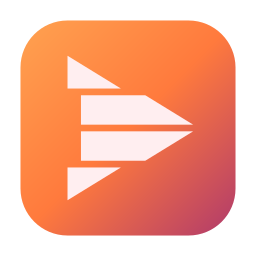
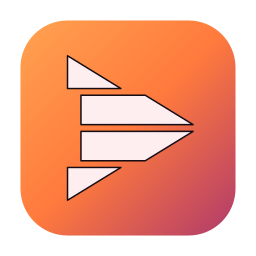
Give the woven ribbons a dark edge so they hold against the orange

diff --git a/tools/make_icon.py b/tools/make_icon.py
@@ -6,6 +6,11 @@ bands pushed sideways so the shape reads as cloth up close and as a play
 button at sixteen pixels. The two middle bands share an offset on purpose,
 because the apex sits exactly on their seam and opposite offsets fork the tip.
 
+Each band is worked out as its own polygon rather than cut out of one triangle
+with a clip. A clip would hide the outline along the horizontal cuts, since a
+clipped edge is not part of the shape being stroked, and the ribbons would be
+outlined on their slanted sides only.
+
 The whole drawing is scaled inside its square rather than drawn smaller,
 because a task bar gives every icon the same box. A tile that fills its box
 edge to edge looks bigger than the icons beside it, which almost all carry
@@ -36,6 +41,14 @@ CORNER = 28.0                    # corner radius before scaling
 MARK = "#ffeef0"                 # the theme's own text colour
 STOPS = (("0", "#ffa250"), ("0.5", "#ff7a3d"), ("1", "#b03a6b"))
 
+# White on orange separates by brightness alone, which a small icon renders as
+# a smear. A dark edge gives the ribbons a boundary that survives the shrink.
+# The weight is a compromise measured at every shipped size. Below about 0.5 it
+# stops reaching the rasteriser at all, and by 1.5 it starts greying the white
+# at sixteen pixels, where each ribbon is only a couple of pixels wide.
+OUTLINE = "#170d14"              # the theme's own background colour
+OUTLINE_WIDTH = 0.75
+
 # The triangle before scaling, and the horizontal cuts through it. The seams
 # are the band edges, the offsets are how far each band slides sideways.
 LEFT, RIGHT, TOP, BOTTOM = 32.0, 102.0, 21.0, 107.0
@@ -49,24 +62,44 @@ def scaled(value: float) -> float:
     return round(BOX / 2 + (value - BOX / 2) * FILL, 2)
 
 
-def draw() -> str:
+def right_edge(y: float) -> float:
+    """How far the triangle reaches at that height.
+
+    The two slanted sides meet at the apex, so the reach grows to the middle
+    and falls away again, which is what the distance from the middle measures.
+    """
+    middle = (TOP + BOTTOM) / 2
+    reach = 1 - abs(y - middle) / ((BOTTOM - TOP) / 2)
+    return LEFT + (RIGHT - LEFT) * reach
+
+
+def band(index: int) -> str:
+    """One ribbon, as a closed shape that can carry an outline.
+
+    The first and the last band end in a point, because their far edge is a
+    corner of the triangle rather than a cut across it.
+    """
     edges = [TOP, *SEAMS, BOTTOM]
-    triangle = (f"M {scaled(LEFT)} {scaled(TOP)} "
-                f"L {scaled(LEFT)} {scaled(BOTTOM)} "
-                f"L {scaled(RIGHT)} {scaled(BOTTOM - (BOTTOM - TOP) / 2)} Z")
+    first, last = index == 0, index == len(OFFSETS) - 1
+    top = edges[index] + (0 if first else GAP / 2)
+    bottom = edges[index + 1] - (0 if last else GAP / 2)
+    slide = round(OFFSETS[index] * FILL, 2)
 
-    clips, bands = [], []
-    for index, offset in enumerate(OFFSETS):
-        first, last = index == 0, index == len(OFFSETS) - 1
-        top = 0.0 if first else scaled(edges[index] + GAP / 2)
-        bottom = BOX if last else scaled(edges[index + 1] - GAP / 2)
-        clips.append(f'<clipPath id="b{index}">'
-                     f'<rect x="0" y="{top}" width="{BOX:.0f}" height="{round(bottom - top, 2)}"/>'
-                     f'</clipPath>')
-        bands.append(f'<g clip-path="url(#b{index})">'
-                     f'<path d="{triangle}" transform="translate({round(offset * FILL, 2)},0)"/>'
-                     f'</g>')
+    def point(x: float, y: float) -> str:
+        return f"{round(scaled(x) + slide, 2)} {scaled(y)}"
 
+    if first:
+        corners = [point(LEFT, top), point(right_edge(bottom), bottom), point(LEFT, bottom)]
+    elif last:
+        corners = [point(LEFT, top), point(right_edge(top), top), point(LEFT, bottom)]
+    else:
+        corners = [point(LEFT, top), point(right_edge(top), top),
+                   point(right_edge(bottom), bottom), point(LEFT, bottom)]
+    return "M " + " L ".join(corners) + " Z"
+
+
+def draw() -> str:
+    bands = "".join(f'<path d="{band(index)}"/>' for index in range(len(OFFSETS)))
     tile = scaled(0.0)
     side = round(BOX * FILL, 2)
     gradient = "".join(f'<stop offset="{at}" stop-color="{colour}"/>' for at, colour in STOPS)
@@ -74,11 +107,11 @@ def draw() -> str:
             f'width="{BOX:.0f}" height="{BOX:.0f}">\n'
             f'  <defs>\n'
             f'    <linearGradient id="tile" x1="0" y1="0" x2="1" y2="1">{gradient}</linearGradient>\n'
-            f'    {"".join(clips)}\n'
             f'  </defs>\n'
             f'  <rect x="{tile}" y="{tile}" width="{side}" height="{side}" '
             f'rx="{round(CORNER * FILL, 2)}" fill="url(#tile)"/>\n'
-            f'  <g fill="{MARK}">{"".join(bands)}</g>\n'
+            f'  <g fill="{MARK}" stroke="{OUTLINE}" stroke-width="{OUTLINE_WIDTH}" '
+            f'stroke-linejoin="round">{bands}</g>\n'
             f'</svg>\n')
 
 
